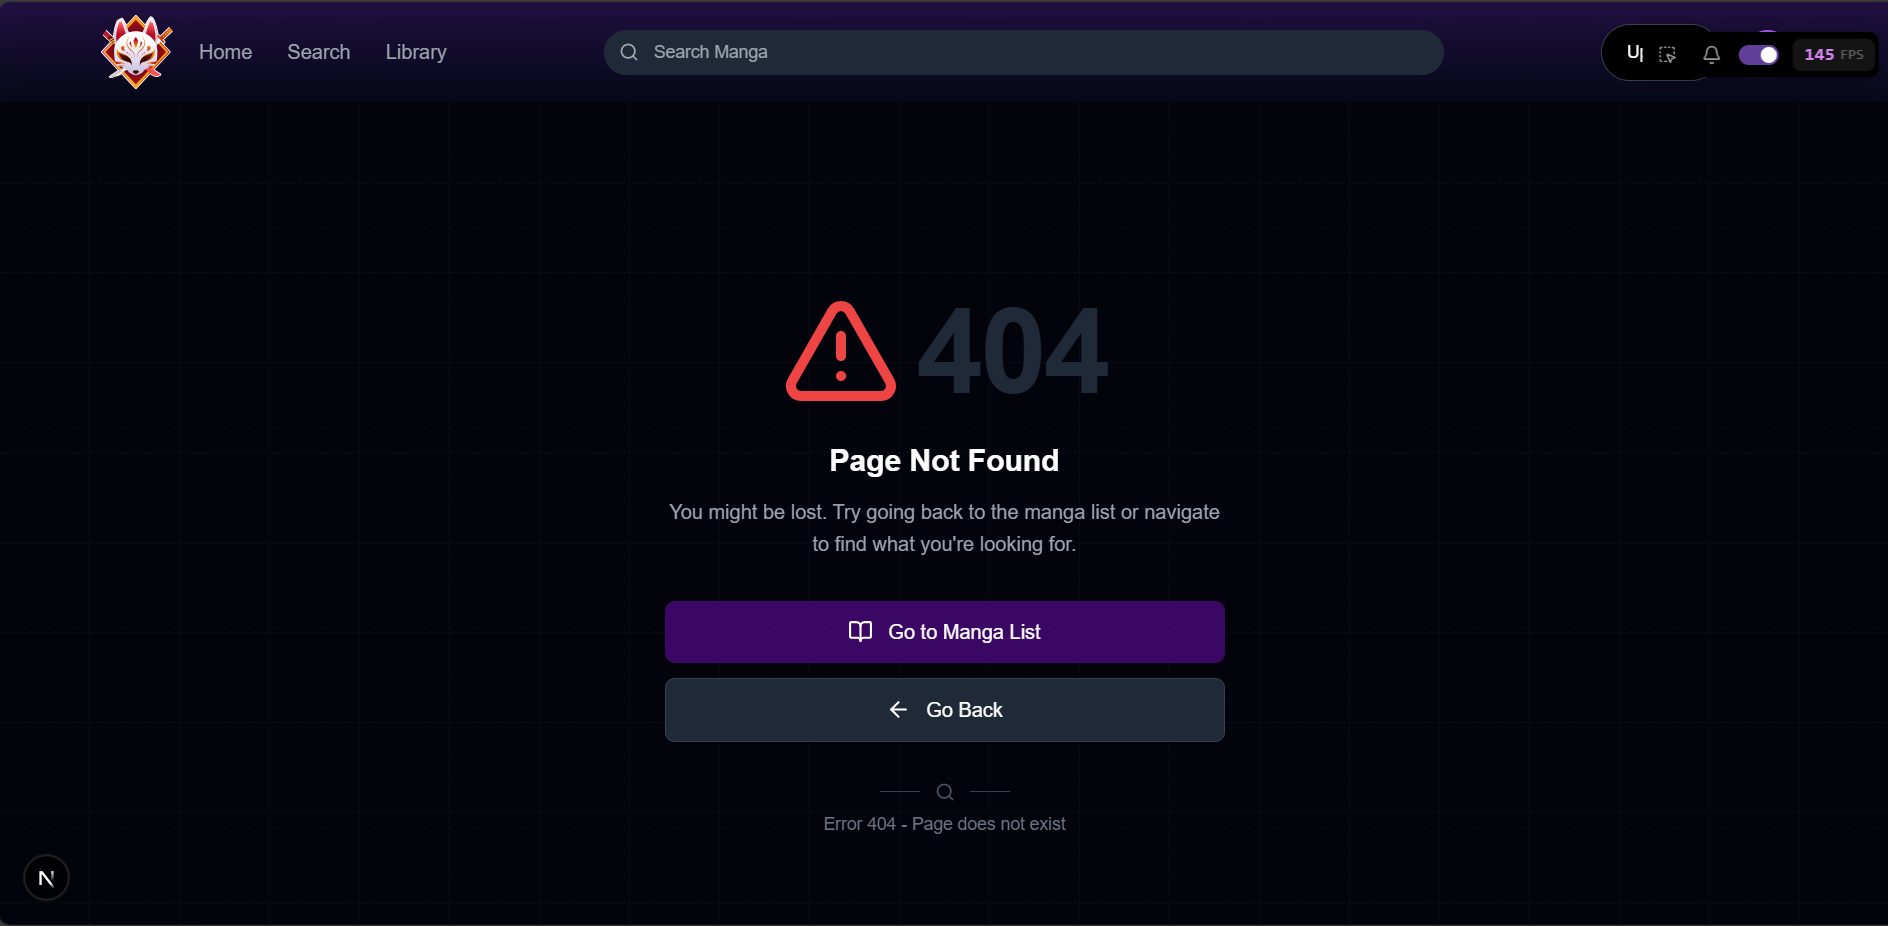
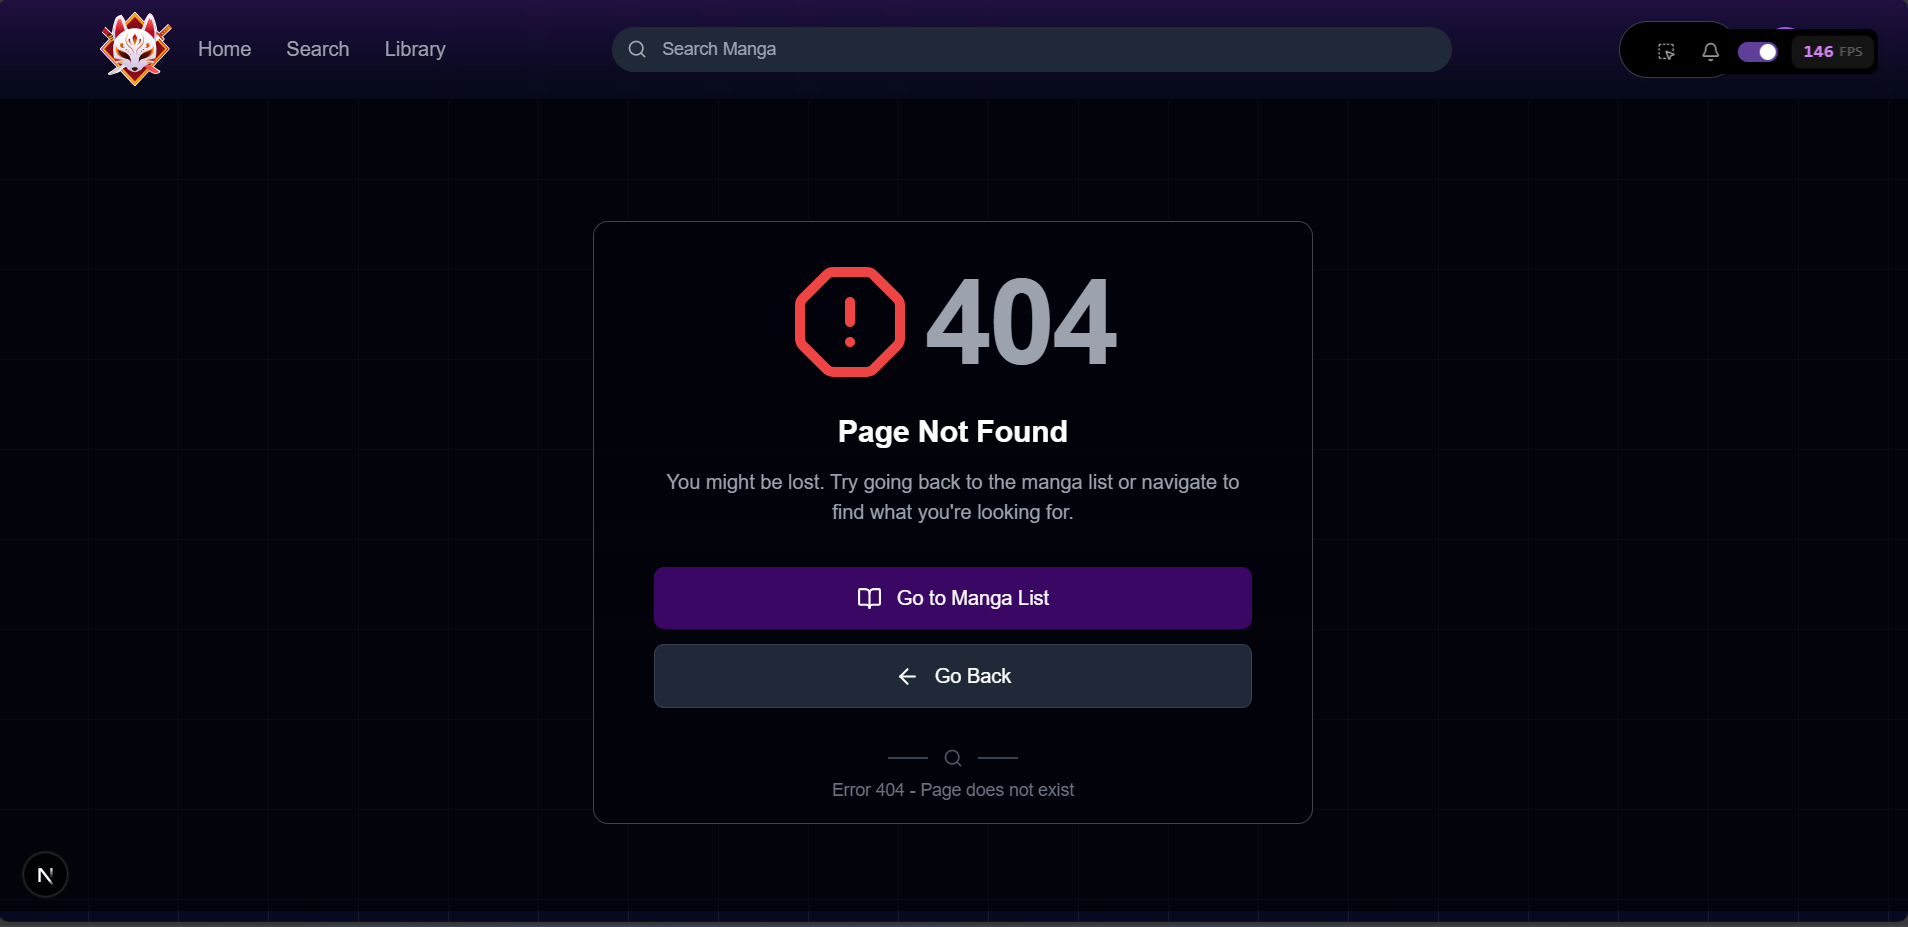
modified the look of 404 page now it is some what accaptable updated the demo images

diff --git a/app/not-found.jsx b/app/not-found.jsx
@@ -1,5 +1,5 @@
 "use client"
-import { ArrowLeft, BookOpen, Search, TriangleAlert } from 'lucide-react';
+import { ArrowLeft, BookOpen, OctagonAlert, Search} from 'lucide-react';
 import { useRouter } from 'next/navigation';
 
 export default function Custom404() {
@@ -14,34 +14,34 @@ export default function Custom404() {
   };
 
   return (
-    <div className="min-h-screen md:min-h-[89vh] bg-black/30 flex items-center justify-center px-6">
-      <div className="max-w-md w-full">
+    <div className="min-h-screen w-full md:min-h-[88vh] bg-black/30 flex items-center justify-center px-3 md:px-6">
+      <div className="max-w-xl w-full mt-10  md:mt-7 bg-black/5 border-[1px] border-gray-400/40 backdrop-blur-md p-4 px-4 md:px-12 rounded-xl">
         {/* Clean 404 Display */}
-        <div className="text-center mb-8 mt-20 md:mt-7">
-          <div className="relative justify-center flex items-center gap-3 flex-row  mb-6">
-              <TriangleAlert className="w-20 h-20 md:w-24 md:h-24 text-red-500" />
-            <h1 className="text-7xl md:text-8xl font-bold text-gray-800 tracking-tight">404</h1>
+        <div className="text-center mb-8 mt-4">
+          <div className="relative justify-center flex items-center gap-3 flex-row mb-5 md:mb-6">
+            <OctagonAlert className="w-[70px] h-[70px] md:w-24 md:h-24 text-red-500" />
+            <h1 className="text-6xl md:text-8xl font-bold text-gray-400 tracking-tight">404</h1>
           </div>
-          
           <h2 className="text-2xl font-semibold text-white mb-3">Page Not Found</h2>
-          <p className="text-gray-400 leading-relaxed">
+          <p className="text-gray-400 leading-relaxed text-xs md:text-base">
             You might be lost. Try going back to the manga list or navigate to find what you're looking for.
           </p>
         </div>
 
         {/* Action Buttons */}
-        <div className="space-y-3 mb-8">
+        <div className="md:space-y-3 space-x-3 md:space-x-0 flex flex-row md:flex-col mb-4 md:mb-8">
           <button
             onClick={handleGoHome}
-            className="w-full flex items-center justify-center gap-3 bg-purple-950 text-white py-3 px-4 rounded-lg font-medium hover:bg-purple-900 transition-colors duration-200"
+            className="w-full flex items-center justify-center gap-3 bg-purple-950 text-white py-2 px-2 md:py-3 md:px-4 rounded-lg font-medium hover:bg-purple-900 transition-colors duration-200"
           >
             <BookOpen className="w-5 h-5" />
-            Go to Manga List
+            <span className='md:hidden'>Home</span>
+            <span className='hidden md:block'>Go to Manga List</span>
           </button>
-          
+
           <button
             onClick={handleGoBack}
-            className="w-full flex items-center justify-center gap-3 bg-gray-800 text-white py-3 px-4 rounded-lg font-medium hover:bg-gray-700 transition-colors duration-200 border border-gray-700"
+            className="w-full flex items-center justify-center gap-3 bg-gray-800 text-white py-2 px-2 md:py-3 md:px-4 rounded-lg font-medium hover:bg-gray-700 transition-colors duration-200 border border-gray-700"
           >
             <ArrowLeft className="w-5 h-5" />
             Go Back
@@ -59,14 +59,6 @@ export default function Custom404() {
             Error 404 - Page does not exist
           </p>
         </div>
-      </div>
-
-      {/* Subtle background grid */}
-      <div className="fixed inset-0 pointer-events-none opacity-5">
-        <div className="absolute inset-0" style={{
-          backgroundImage: `radial-gradient(circle at 1px 1px, rgba(255,255,255,0.3) 1px, transparent 0)`,
-          backgroundSize: '20px 20px'
-        }}></div>
       </div>
     </div>
   );

diff --git a/app/layout.tsx b/app/layout.tsx
@@ -24,6 +24,7 @@ export default function RootLayout({ children }: { children: React.ReactNode }) 
           MozOsxFontSmoothing: 'grayscale',
           touchAction: 'manipulation',
         }}
+        cz-shortcut-listen="true"
         className="bg-[#070920] text-white"
       >
         <TanstackProvider>
